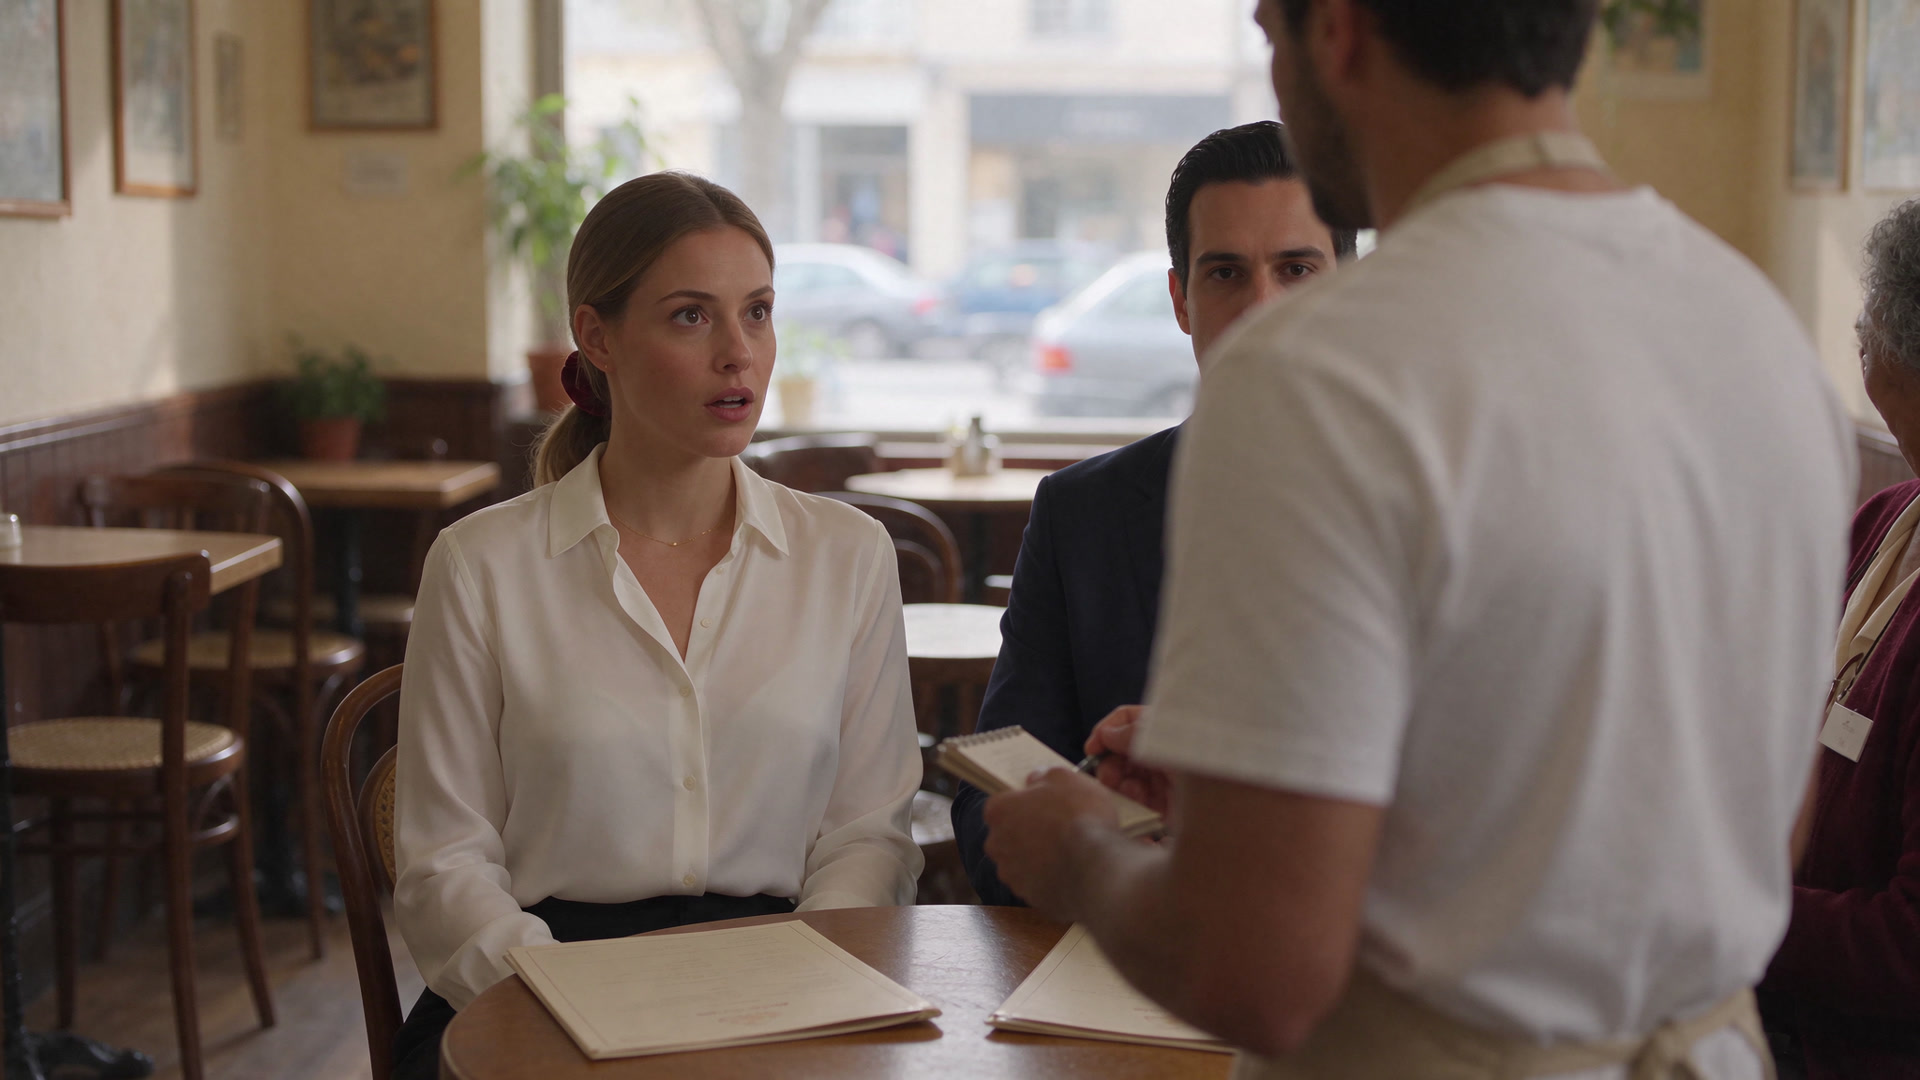
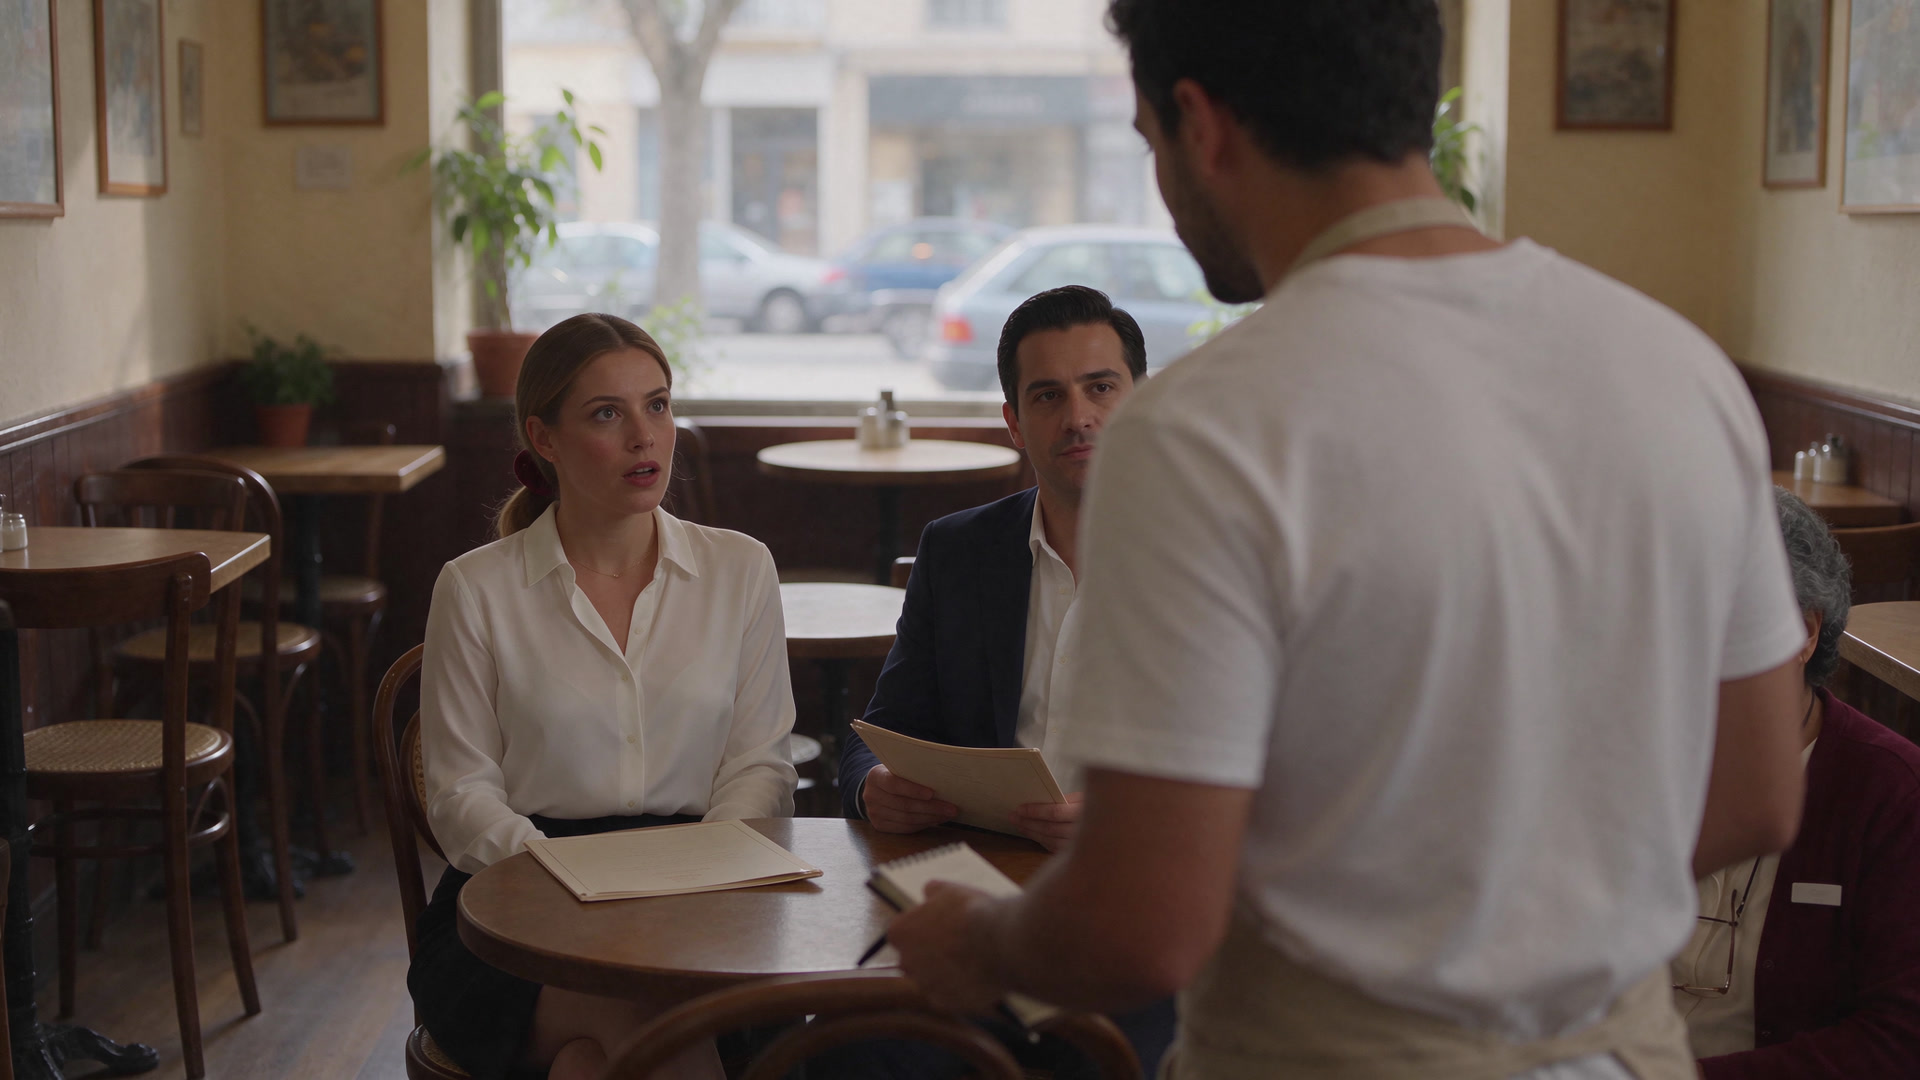
ep003 v2 storyboard: Woody revisions (C3 moved behind Vanessa, counter background; Marta single badge; Lucas not writing; Diego menu at chest; C2 brightness matched; updated lines and floor plan)
Claude-Session: https://claude.ai/code/session_01CYEraXnXXqCbwtdQhfANh9

diff --git a/novelinhas/ep003-veo-episodio/roteiro_v2.md b/novelinhas/ep003-veo-episodio/roteiro_v2.md
@@ -20,11 +20,20 @@
 | **Lucas** (32, herói) | ref `ep003/refs/lucas_*`; cabelo escuro curto ondulado, barba curta; **camiseta branca gola redonda, avental bege**; **bloquinho na mão esquerda, caneta na direita**; nunca celular | `man about 32, deep calm baritone, slow and polite, native Brazilian Portuguese (São Paulo accent)` |
 | **Dona Marta** (65, gerente) | **ref nova** (seed fixa); cabelo grisalho curto e cacheado, óculos de leitura num cordão, **cardigã vinho** sobre blusa creme, crachá sem texto | `ELDERLY woman about 65, LOW husky alto voice, slow warm grandmotherly pace, native Brazilian Portuguese (São Paulo accent)` |
 
+## Revisão do Woody (storyboard validado, commit 3dbaa94 → esta revisão)
+- **Aprovados sem regerar:** p01, p04, p09. No prompt Veo do plano 1 acrescentar: `Diego looks down at his menu, never at the camera`.
+- **Diego:** `Diego holds his closed menu at chest height` em todos os quadros/prompts até o plano 9.
+- **Lucas:** `notepad lowered at waist in left hand, pen held away from the pad in right hand, not writing` (no 8 ele guarda a caneta no bolso do avental).
+- **Vanessa:** `visible soft shoulder pads` em todo prompt. **Janela visível:** `boxy 1990s sedans and hatchbacks outside`.
+- **C3 novo:** câmera atrás e à esquerda da Vanessa (entre ela e a parede esquerda), abaixo do eixo; fundo = **balcão** + parede direita; janela atrás da câmera, luz suave vindo do lado da câmera.
+- **Dona Marta:** referência refeita com **1 crachá branco sem texto no lado esquerdo do peito** (`storyboard/ref_marta.jpg`).
+- **Brilho:** quadros C2 igualados aos C1/C3/C4 (luminância média ≈ 92–98).
+
 ## Espaço (ver `planta_cafe.jpg`)
-- Mesa redonda **T1** encostada na **janela da frente** (fundo). **Vanessa** sentada à **esquerda** de T1, **Diego** à **direita** de T1, ambos de frente para o balcão. **2 cardápios fechados** sobre T1, um na frente de cada um. Mais nada na mesa o episódio inteiro (os cafés nunca chegam).
+- Mesa redonda **T1** perto da **janela da frente**, com a **mesa extra T4 entre T1 e a janela**; outras mesas pela sala (T2, T3, T5–T8). **Vanessa** sentada à **esquerda** de T1, **Diego** à **direita** de T1, ambos de frente para o balcão. **2 cardápios fechados** sobre T1, um na frente de cada um. Mais nada na mesa o episódio inteiro (os cafés nunca chegam).
 - **Lucas** vem do balcão (frente/direita) e fica **em pé do lado direito de T1, encostado na mesa, ao lado do Diego**, de frente para o casal.
 - **Dona Marta** vem do balcão pela direita e para **à direita do Lucas** (mais perto do balcão).
-- **Outras mesas (T2, T3):** vazias, sem nada em cima. Sem outros clientes. Porta de entrada na parede esquerda (ninguém usa nesta cena).
+- **Outras mesas:** sem cardápios nem xícaras (saleiros ok). Sem outros clientes. Porta de entrada na parede esquerda (ninguém usa nesta cena).
 - **Eixo 180°:** linha casal ↔ Lucas. **A câmera fica sempre do lado do balcão.** Vanessa e Diego olham **para cima e à direita**; Lucas e Marta olham **para baixo e à esquerda**.
 - **Luz:** uma só, luz natural de fim de tarde pela janela (atrás do casal), **neutra e contida**, preenchimento suave do lado do balcão.
 - **Visual:** cor neutra, saturação reduzida, só um toque de anos 90 (figurino, telefone de fio e registradora no balcão, carros antigos lá fora); acabamento `grade_suave.txt` na edição.
@@ -33,13 +42,13 @@
 | # | Dur. | Enquadramento (câmera) | Quem fala / fala exata | Em quadro e onde | Mãos / mesa | Quadro inicial |
 |---|---|---|---|---|---|---|
 | **1** | 8 s | **MESTRE** aberto frontal (C1): mesa T1 inteira, janela atrás | **VANESSA** (olhando o café, depois para o Diego): *"Nossa, amor... que lugar mais simples, hein? Só tem gente sem dinheiro aqui."* — no fim, o Lucas chega pela direita e para ao lado do Diego (só do peito para baixo; cabeça sai pelo topo) | Vanessa (esq.), Diego (dir.), Lucas entrando (dir.) | Diego segura o cardápio dele; o da Vanessa na mesa. Lucas com bloquinho e caneta | Seedream |
-| **2** | 6 s | **Over-the-shoulder do Lucas** (C2): Vanessa de frente; costas/ombro do Lucas à direita; Diego visível entre os dois, meio encoberto | **VANESSA** (reconhece, deboche): *"Lucas? Não acredito! Você ainda trabalha servindo mesa?"* | Vanessa (esq.), Diego (centro, parcial), Lucas de costas (dir., primeiro plano) | Cardápios em T1 na frente dela | Seedream |
-| **3** | 6 s | **Contraplano over-the-shoulder da Vanessa** (C3): nuca/ombro da Vanessa à esquerda; **T1 na parte de baixo** com os cardápios; Diego sentado de perfil; Lucas em pé encostado na mesa | **LUCAS** (calmo): *"Trabalho, sim. Boa tarde, Vanessa. O que vocês vão querer?"* | Vanessa de costas (esq.), Diego (centro), Lucas (dir.) | Lucas segura bloquinho e caneta **parados** (não escreve) | Seedream |
+| **2** | 6 s | **Over-the-shoulder do Lucas** (C2): Vanessa de frente; costas/ombro do Lucas à direita; Diego visível entre os dois, meio encoberto | **VANESSA** (reconhece, deboche): *"Lucas? Não acredito! Você ainda é garçom?"* | Vanessa (esq.), Diego (centro, parcial), Lucas de costas (dir., primeiro plano) | Cardápio da Vanessa em T1; Diego segura o dele fechado no peito | Seedream |
+| **3** | 6 s | **Contraplano over-the-shoulder da Vanessa** (C3, câmera atrás e à esquerda dela): nuca e ombro esquerdo da Vanessa à esquerda; Diego ao lado dela de três-quartos de costas, olhando para cima e à direita, segurando o cardápio; Lucas em pé encostado na borda direita de T1; **fundo: balcão** (espresso antiga, registradora, telefone de fio) e parede direita; a janela fica atrás da câmera | **LUCAS** (calmo): *"Trabalho, sim. Boa tarde, Vanessa. O que vocês vão querer?"* | Vanessa de costas (esq.), Diego (centro), Lucas (dir.) | Lucas segura bloquinho e caneta **parados** (não escreve) | Seedream |
 | **4** | 6 s | **Close do Diego** (C4): Diego de frente, olhando para cima e à direita; **ombro da Vanessa** na borda esquerda | **DIEGO** (risadinha): *"Então esse é o ex? Olha só o avental, amor."* | Diego (centro), ombro da Vanessa (esq.); Lucas fora de quadro à direita (em pé, acima do enquadramento) | Diego segura o cardápio | Seedream |
 | **5** | 6 s | Igual ao **2** (C2) | **VANESSA** (de cima para baixo): *"Traz dois cafés. E capricha, viu? Pelo menos isso você sabe fazer."* | igual ao 2 | igual ao 2 | **último quadro do 2** (Seedream só como referência) |
-| **6** | 8 s | Igual ao **3** (C3) | **DONA MARTA** entra pela direita, toca o braço do Lucas: *"Seu Lucas, o contador ligou. As doze lojas bateram recorde este mês!"* Lucas sorri, calado | Vanessa de costas (esq.), Diego (centro), Lucas (dir.), Marta entra e para à direita do Lucas | Lucas com bloquinho parado | **último quadro do 3** |
+| **6** | 8 s | Igual ao **3** (C3) | **DONA MARTA** entra vindo do balcão, ao fundo à direita, para ao lado do Lucas e toca o braço dele: *"Seu Lucas, o contador ligou. As doze lojas bateram recorde de venda este mês!"* Lucas sorri, calado | Vanessa de costas (esq.), Diego (centro), Lucas (dir.), Marta entra e para à direita do Lucas | Lucas com bloquinho parado | **último quadro do 3** |
 | **7** | 4 s | Igual ao **2** (C2); Marta aparece **em parte** na borda direita (manga do cardigã vinho), ao lado das costas do Lucas | **VANESSA** (baixinho, chocada): *"Seu Lucas? Doze lojas?"* | Vanessa (esq.), Diego (centro, parcial), Lucas de costas (dir.), manga da Marta (borda dir.) | — | **último quadro do 5** |
-| **8** | 6 s | Igual ao **3/6** (C3) | **LUCAS** (sorriso tranquilo): *"Pois é. Esta aqui foi a primeira. Os cafés de vocês são por conta da casa."* | Vanessa de costas, Diego, Lucas, Marta ao lado dele sorrindo | Lucas guarda a caneta no bolso do avental | **último quadro do 6** |
+| **8** | 6 s | Igual ao **3/6** (C3) | **LUCAS** (sorriso tranquilo): *"Pois é. Essa aqui foi a primeira. O café de vocês é por conta da casa."* | Vanessa de costas, Diego, Lucas, Marta ao lado dele sorrindo | Lucas guarda a caneta no bolso do avental | **último quadro do 6** |
 | **9** | 4 s | Igual ao **4** (C4) | **DIEGO** (sem graça, abaixa o cardápio): *"Amor... vamos embora."* | Diego, ombro da Vanessa (esq.) | Diego larga o cardápio na mesa | **último quadro do 4** |
 
 Card final 4 s (ASSISTA TAMBÉM / INSCREVA-SE / ATIVA O SININHO) sobre o último quadro desfocado.
@@ -67,6 +76,9 @@ Quadros iniciais gerados no Seedream 5.5 com as referências fixas (Vanessa, Die
 - **C4 (4, 9):** close do Diego; ombro da Vanessa na borda esquerda e avental do Lucas na borda direita (coerente: ele está em pé ao lado). ✅
 - Luz neutra pela janela, sempre do mesmo lado; figurino e cabelo iguais às referências. ✅
 - **Pendências conhecidas:** nos quadros C2 o Lucas aparece com a caneta encostada no bloquinho (o prompt de vídeo diz "não escreve"); nas mesas vazias do fundo aparecem saleiros pequenos (não são cardápios nem xícaras).
+
+### Revisão 2 (Woody)
+Regerados: `ref_marta`, p02, p03, p05, p06, p07, p08. Descartados nesta rodada (não versionados): p02/p03 com o Lucas **escrevendo**, p03 com **uma segunda Vanessa** sentada ao lado do Diego (resolvido gerando o C3 sem a referência do rosto dela, que só aparece de costas). p02 e p07 com brilho reduzido na pós (×0,967 e ×0,925).
 
 **Uso na geração de vídeo:** planos 1–4 partem destes quadros; os planos 5–9 partem do **último quadro real** do vídeo anterior do mesmo ângulo (5←2, 6←3, 7←5, 8←6, 9←4). Os quadros 5–9 do storyboard servem de referência visual e de reserva caso um encadeamento saia errado.
 
